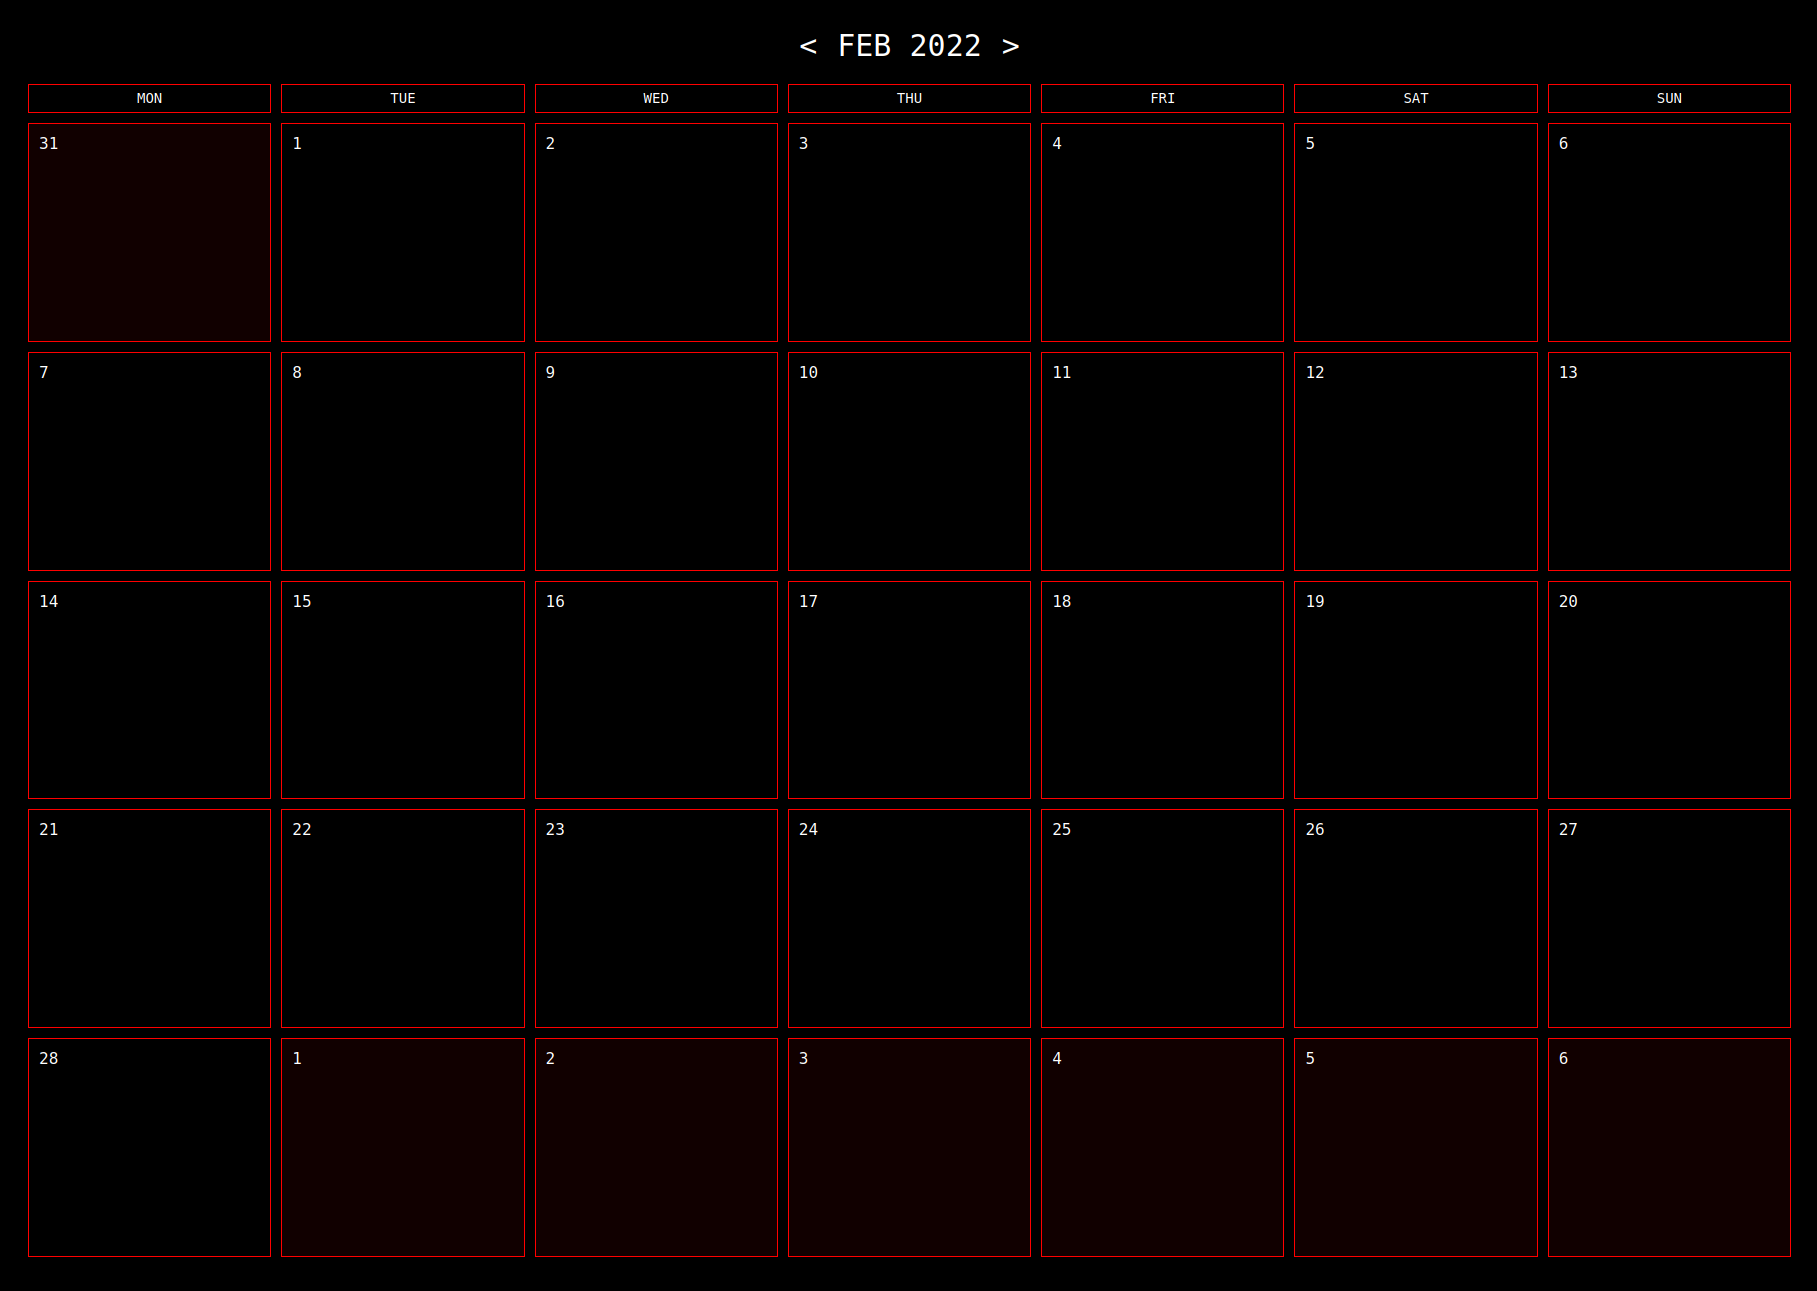
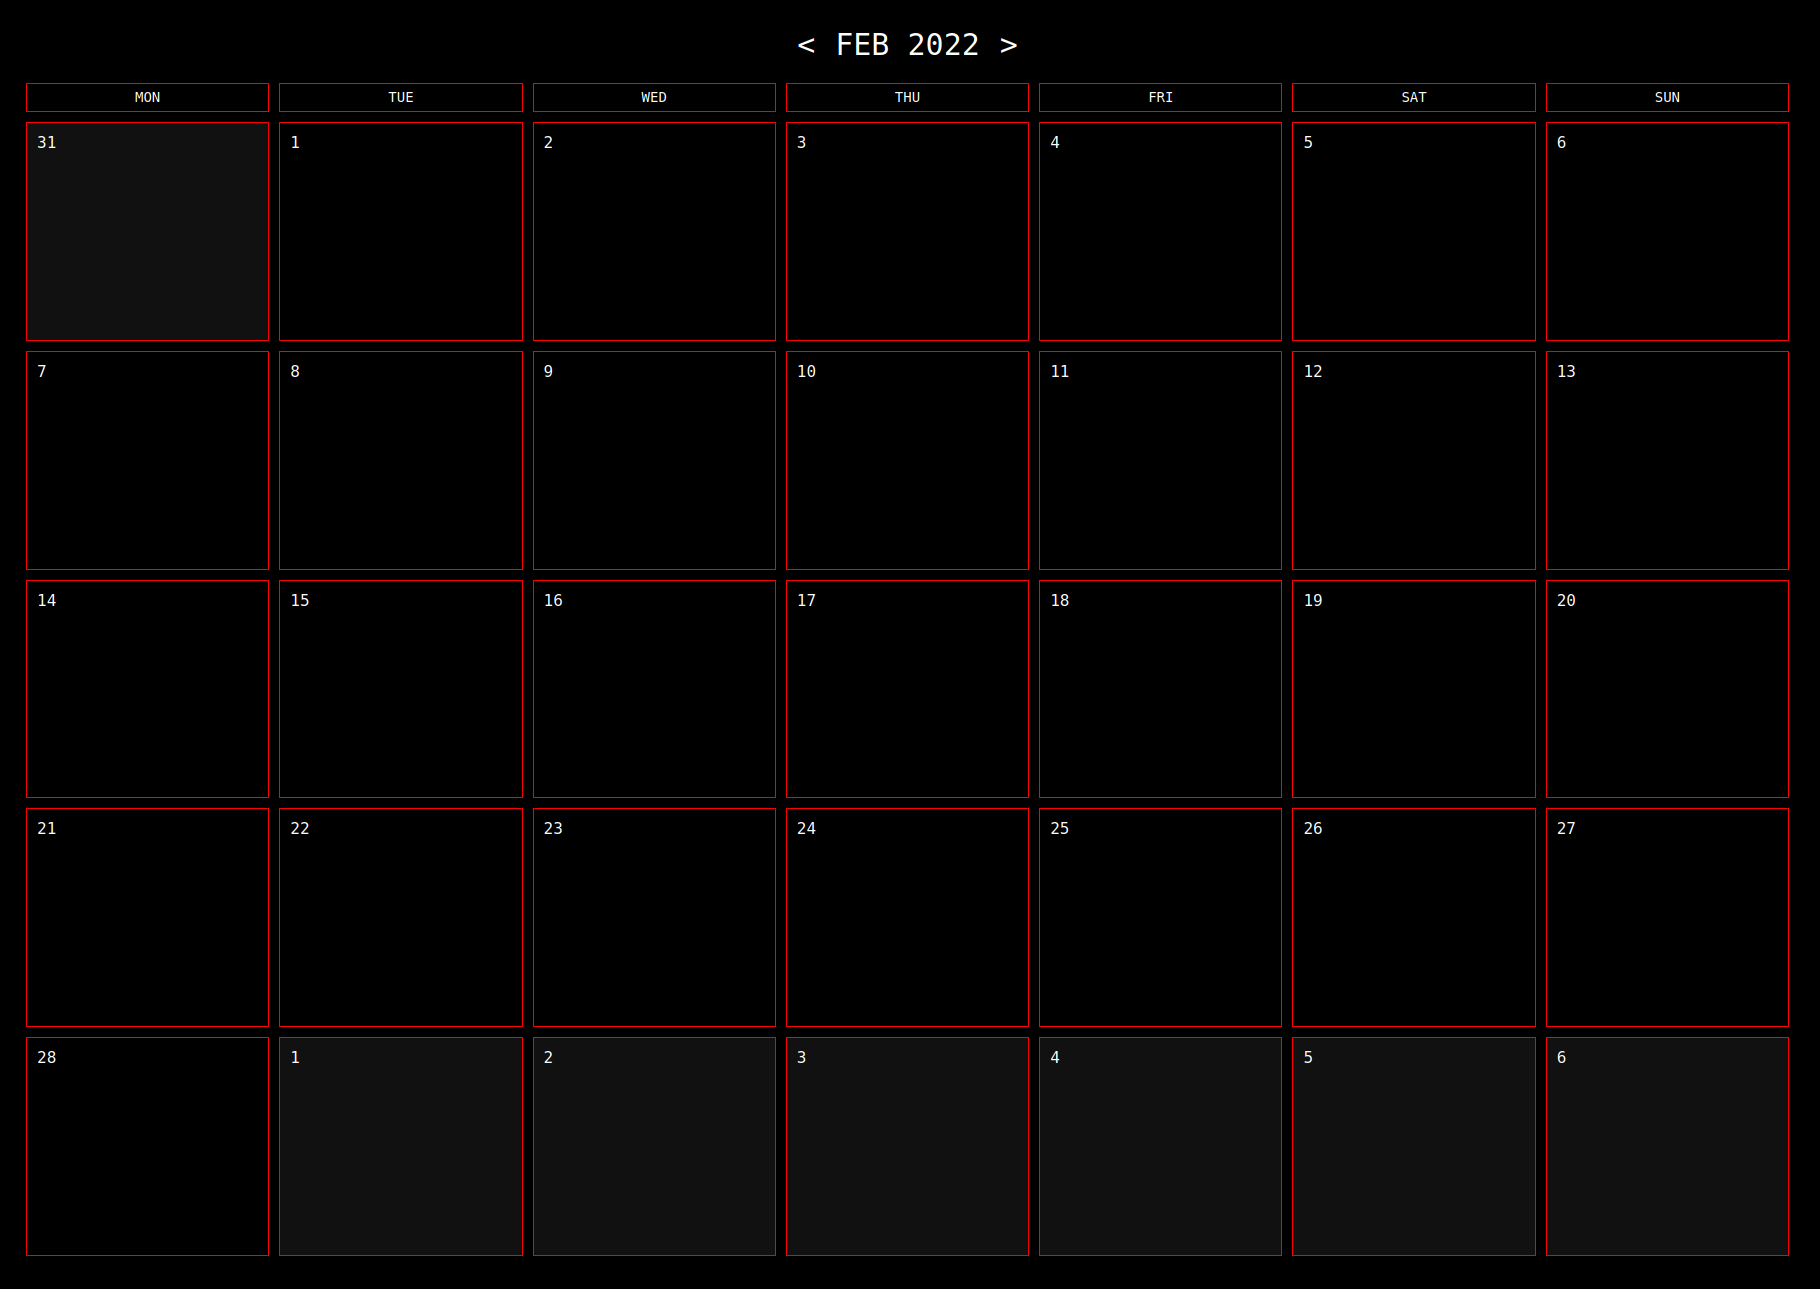
Lets go with gray instead

diff --git a/app.js b/app.js
@@ -58,7 +58,7 @@ app.route('*', (state, emit) => {
         ${monthWeeks.map(week => (
           html`<div class=${weekContainer}>
             ${week.map(day => {
-              const cstyle = `background-color: ${day.month === month ? 'black' : '#100'}`
+              const cstyle = `background-color: ${day.month === month ? 'black' : '#111'}`
               return html`<div class=${dayContainer} style=${cstyle}>${day.day}</div>`
             })}
           </div>`
